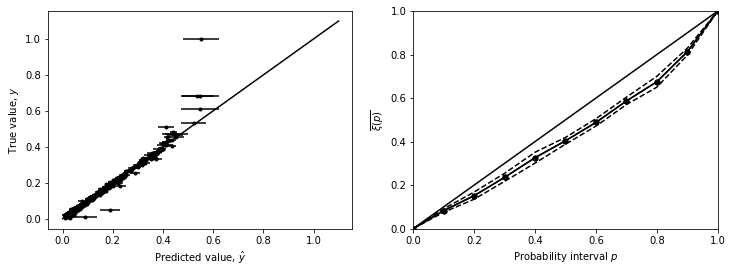
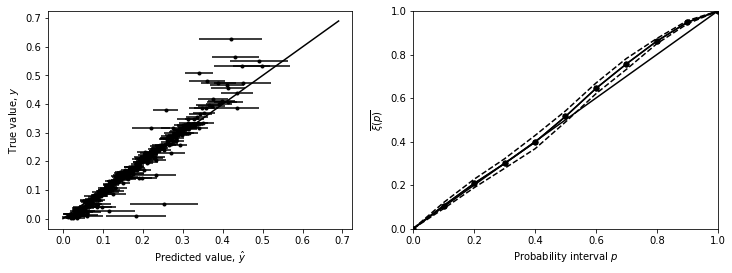
Changes in figure and example

diff --git a/examples/CatboostRegression_GridSearch.py b/examples/CatboostRegression_GridSearch.py
@@ -4,10 +4,6 @@ Created on Mon Sep 20 16:15:37 2021
 
 @author: em42363
 """
-import sys
-#sys.path.insert(0, r'C:\Users\eduar\OneDrive\PhD\UTuning')
-sys.path.insert(0, r'C:\Users\em42363\OneDrive\PhD\UTuning')
-
 from UTuning import scorer, plots, UTSearch
 
 from catboost import CatBoostRegressor ## Decision-tree based gradient boosting

diff --git a/README.md b/README.md
@@ -73,9 +73,8 @@ print(X_train.shape, y_train.shape)
 We define the model and the grid search space,
 we pass the model and the grid search.
 '''
-
-n_estimators = np.arange(80, 150, step=10)
-lr = np.arange(0.01, 0.15, step=.03)
+n_estimators = np.arange(180, 220, step=1) #80 150
+lr = np.arange(0.035, 0.06, step=.001) #0.1 0.15
 param_grid = {
     "learning_rate": list(lr),
     "n_estimators": list(n_estimators)
@@ -84,10 +83,9 @@ param_grid = {
 model = CatBoostRegressor(loss_function='RMSEWithUncertainty',
                           verbose=False)
 
-random_cv = UTuning.GridSearch(model, param_grid, 2)
+random_cv = UTSearch.Grid(model, param_grid, 2)
 
 random_cv.fit(X_train, y_train)
-
 # %%Surface
 '''
 Similarly as in the problem with neural networks we can evaluate the
@@ -101,7 +99,7 @@ labels = {'x': 'n estimators',
 
 plots.surface(df['param_n_estimators'],
               df['param_learning_rate'],
-              (-1)*df['split0_test_score'],
+              df['split0_test_score'],
               30,
               labels)
 ```
